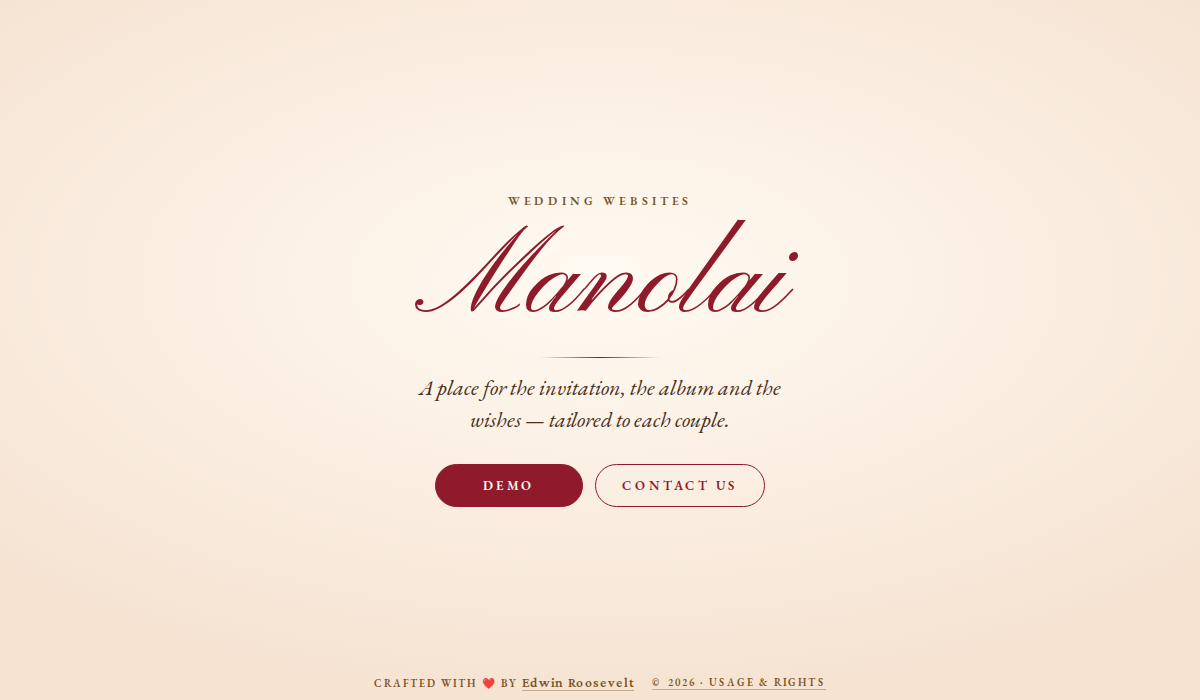
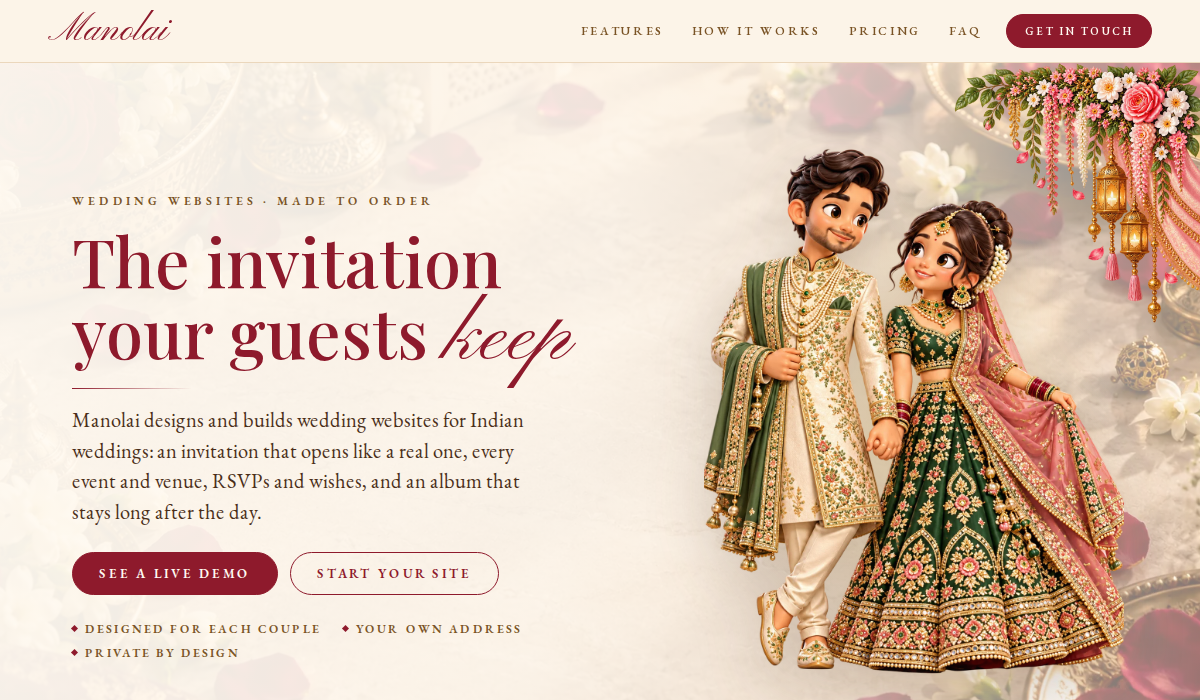
feat: Manolai moves to manolai.com
Link the project to its new domain, refresh the banner from the new
landing view, and update the summary to match the site's description.

diff --git a/src/content/projects.ts b/src/content/projects.ts
@@ -20,9 +20,9 @@ export const projects: Project[] = [
   {
     name: "Manolai",
     summary:
-      "Wedding websites, one per couple at its own address. Before the day, guests open a sealed-envelope invitation that counts down to the wedding; afterwards the site becomes a keepsake album. Couples send their details through a form, and each site is reviewed and published from one dashboard.",
+      "Made-to-order wedding websites for Indian weddings, each at the couple's own address. Before the day, guests open a sealed-envelope invitation with every event and venue, RSVPs, wishes and a countdown; when the day arrives the page turns on its own into a keepsake album.",
     stack: ["Next.js", "React", "TypeScript"],
-    href: "https://manolai.edwinroosevelt.com",
+    href: "https://manolai.com",
     image: manolai,
     size: "major",
   },

diff --git a/src/content/site.ts b/src/content/site.ts
@@ -9,8 +9,8 @@ export const site = {
   resume:
     "https://drive.google.com/file/d/1xI5ExTde9kriVnSUI9WkuehAsmC3LOFL/view?usp=drive_link",
   formspree: "https://formspree.io/f/mdobnepg",
-  revision: "2.1",
-  issued: "2026-10-13",
+  revision: "2.2",
+  issued: "2026-10-15",
 } as const;
 
 export const socials = [
